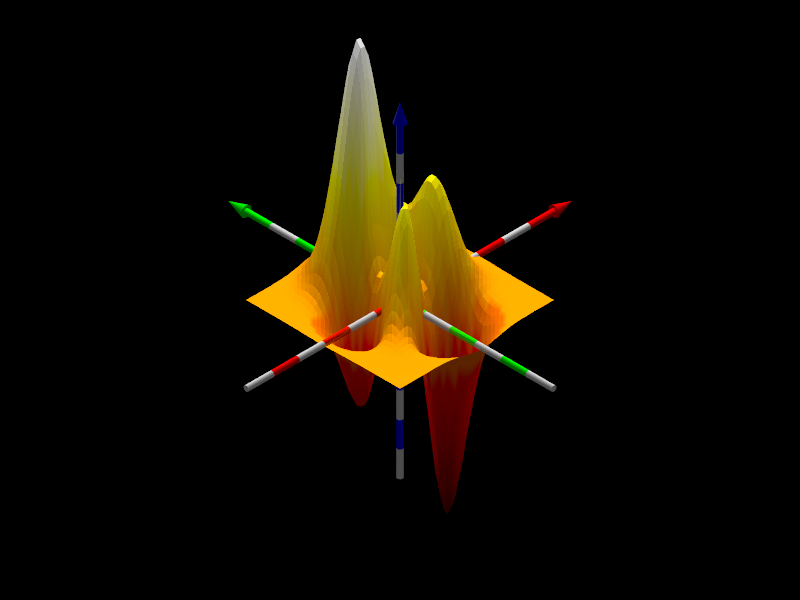
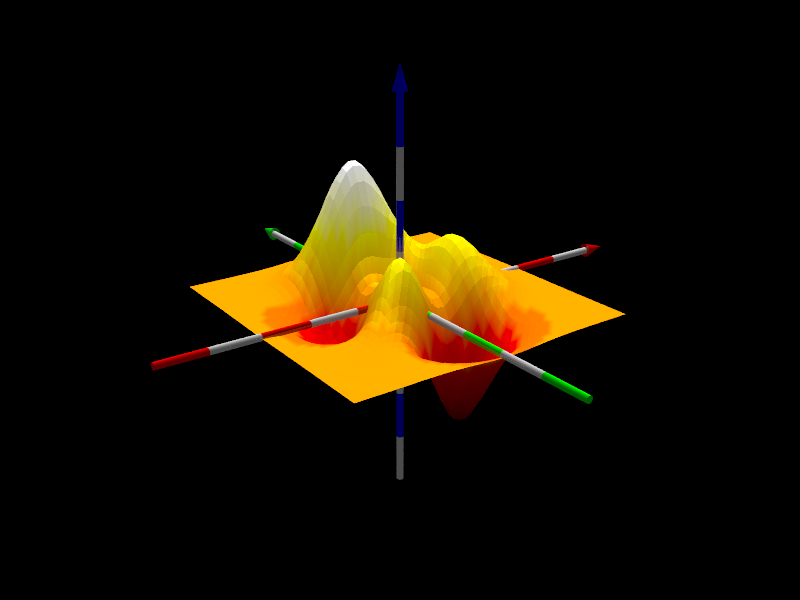
Axis: radius

Changed region(s): [[0.1875, 0.06, 0.7812, 0.87]]

diff --git a/examples/mesh.m b/examples/mesh.m
@@ -40,8 +40,8 @@ pov.global_settings("assumed_gamma 1");
 % Camera
 % type: perspective | orthographic | mesh_camera{MESHCAM_MODIFIERS} | fisheye | ultra_wide_angle |
 %       omnimax | panoramic | cylinder CylinderType (<int[1..4]>) | spherical
-% pov.camera('angle', 55, 'location', [-10 -10 10], 'look_at', [0 0 0], 'right', [-1.33 0 0], 'type', 'perspective');
-pov.camera('angle', 65);
+%pov.camera();
+pov.camera('angle', 45, 'location', [-10 -14 7], 'look_at', [0 0 0], 'type', 'perspective');
 
 % pov.camera('angle', 35, 'location', [12 12 5], 'look_at', [0 1 0]);
 % pov.camera('location', [12 12 12], 'look_at', [0 1 0]);
@@ -67,7 +67,7 @@ tex_axis_yellow = pov.declare("tex_axis_yellow", pov.texture('pigment', [1.0 1.0
 
 % Axis
 % pov.axis();
-pov.axis('size', [6 6 6]);
+pov.axis('size', [5 5 4], 'radius', 0.07);
 % pov.axis('size', [10 10 10], 'tex_common', tex_axis_gray, 'tex_x', tex_axis_yellow, 'tex_y', tex_axis_yellow, 'tex_z', tex_axis_yellow);
 
 % Axis planes textures
@@ -154,7 +154,7 @@ s = surf(X,Y,Z);
 % pov.mesh('surface', s, 'texture_odd', 'Dark_Green_Glass', 'texture_even', 'Aluminum', 'smooth', true, 'rotate', [90, 0, 0], 'scale', [1.5, 1.5, 1.5]);
 % pov.mesh('surface', s, 'texture_odd', 'Ruby_Glass', 'texture_even', 'Aluminum', 'smooth', true, 'rotate', [90, 0, 0], 'scale', [1.5, 1.5, 1.5]);
 
-pov.mesh('surface', s, 'smooth', false, 'colormap', 'hot(16)', 'scale', [1, 1, 1]);
+pov.mesh('surface', s, 'smooth', false, 'colormap', 'hot(16)', 'scale', [1, 1, 3/10]);
 % pov.mesh('surface', s, 'smooth', true, 'texture_odd', 'Aluminum', 'rotate', [90, 0, 0], 'scale', [1.5, 1.5, 1.5]);
 
 % pov.difference_begin();

diff --git a/pov.m b/pov.m
@@ -174,6 +174,7 @@ classdef pov < handle
             addParameter(p,'tex_x', "tex_axis_x", @o.check_string);
             addParameter(p,'tex_y', "tex_axis_y", @o.check_string);
             addParameter(p,'tex_z', "tex_axis_z", @o.check_string);
+            addParameter(p,'radius', 0.05,        @o.check_positive_float);
             parse(p,varargin{:});
             
             % Write
@@ -182,9 +183,10 @@ classdef pov < handle
             tex_x =      p.Results.tex_x;
             tex_y =      p.Results.tex_y;
             tex_z =      p.Results.tex_z;
+            radius =     p.Results.radius;
 
-            fprintf(o.fh,'object{ axis_xyz( %0.1f, %0.1f, %0.1f,\n        %s, %s, %s, %s) }\n\n', ...
-                          size(1), size(2), size(3), ...
+            fprintf(o.fh,'object{ axis_xyz( %0.2f, %0.2f, %0.2f, %0.2f,\n        %s, %s, %s, %s) }\n\n', ...
+                          size(1), size(2), size(3), radius,...
                           tex_common, tex_x, tex_y, tex_z);
         end
 
